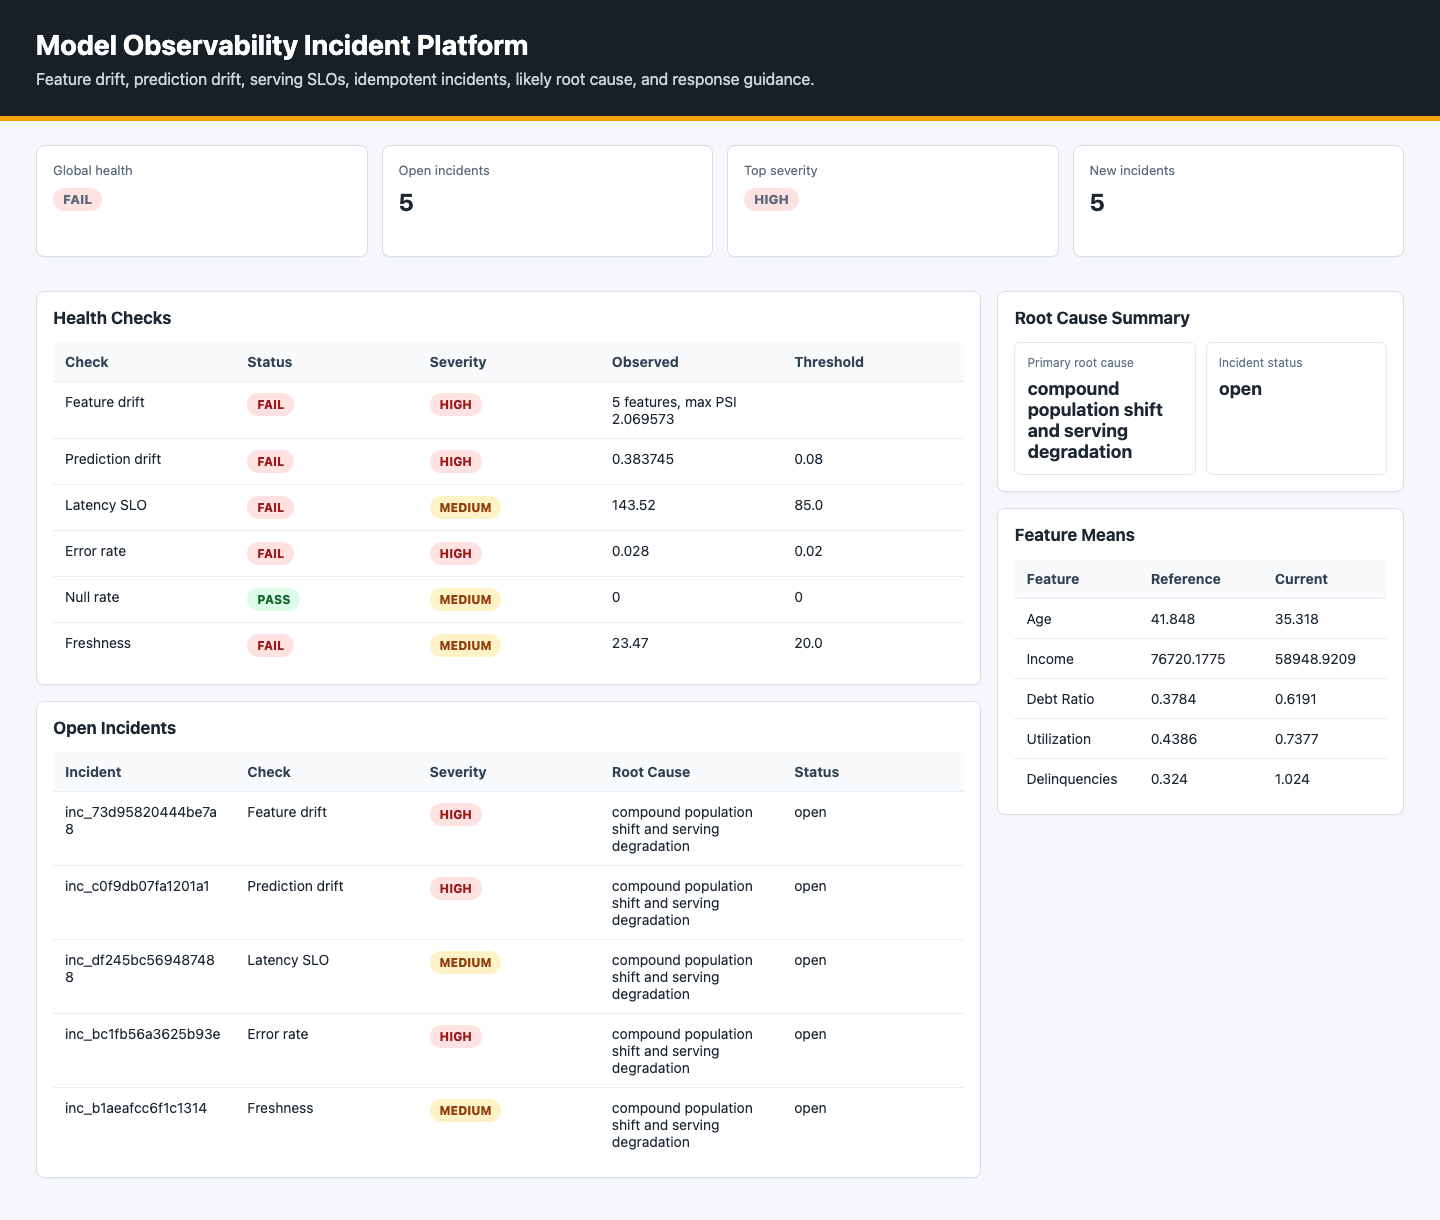
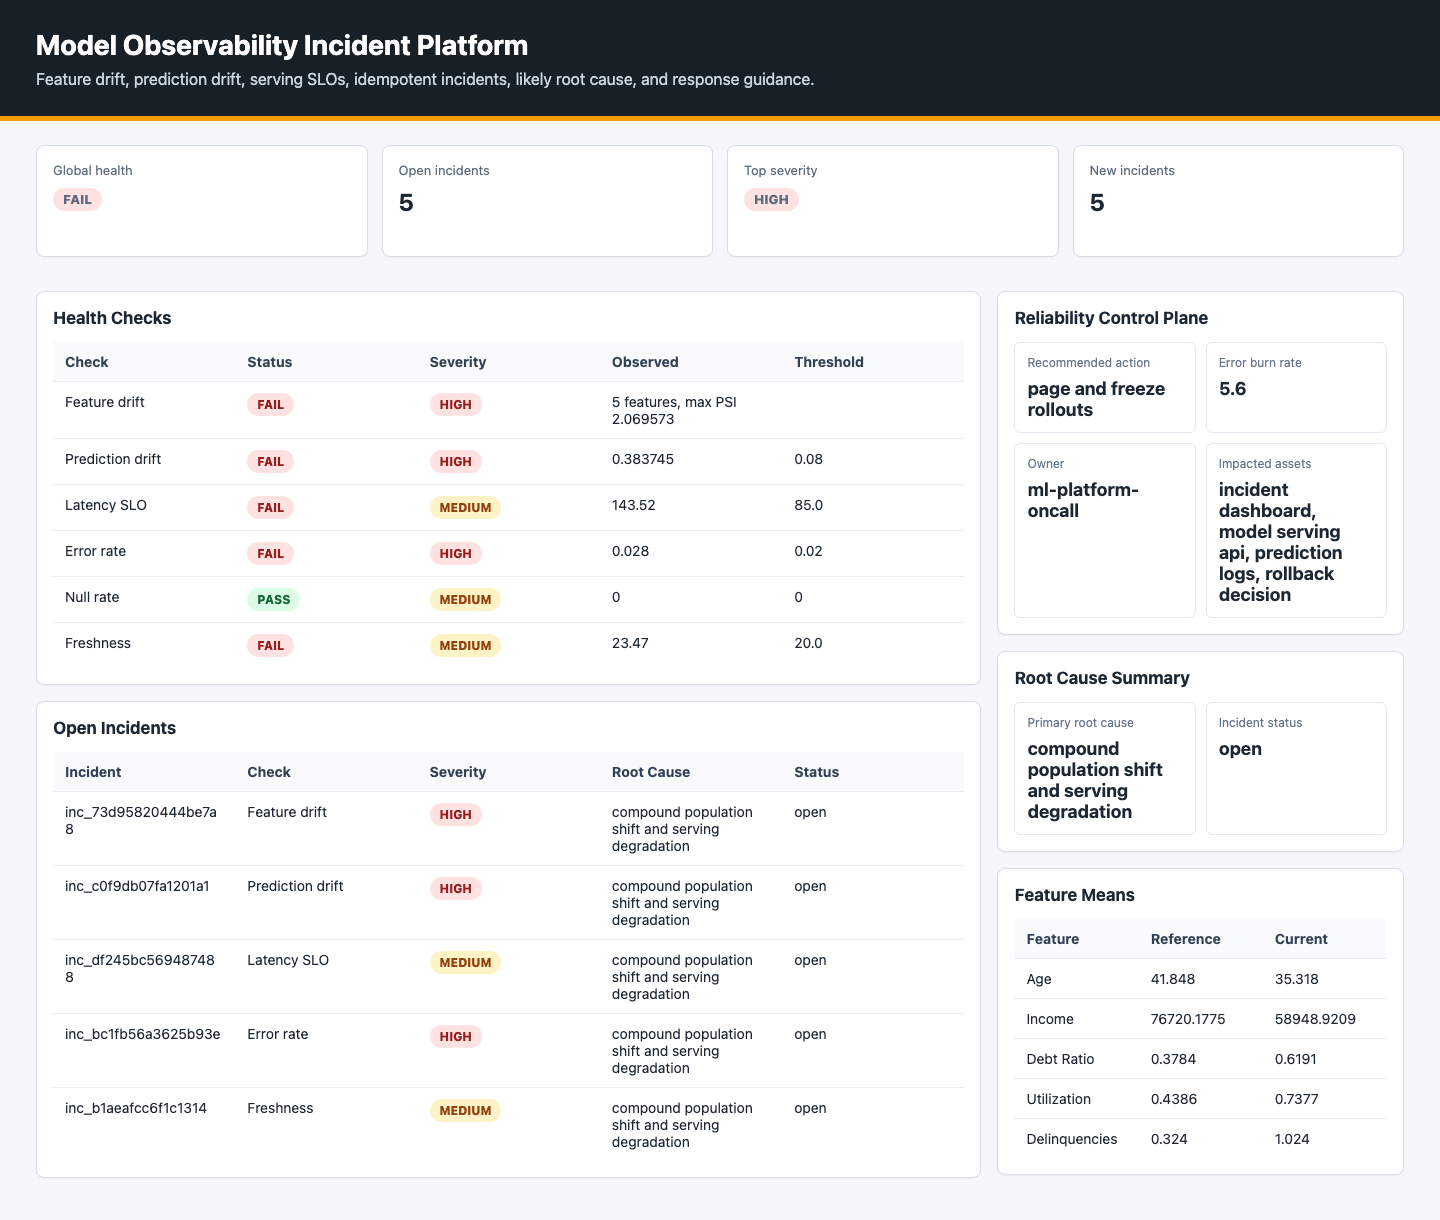
Add reliability control plane and event scaling

diff --git a/src/model_observability_platform/reliability_control.py b/src/model_observability_platform/reliability_control.py
@@ -1,0 +1,64 @@
+from __future__ import annotations
+
+from pathlib import Path
+
+from .io import read_json, write_json
+
+
+def burn_rate(error_rate: float, *, availability_slo: float = 0.995) -> float:
+    return round(error_rate / max(1.0 - availability_slo, 0.0001), 4)
+
+
+def failed_checks(report: dict) -> list[dict]:
+    return [check for check in report.get("checks", []) if not check.get("passed")]
+
+
+def build_reliability_plan(root: str | Path) -> dict:
+    root = Path(root)
+    report = read_json(root / "reports" / "observability_report.json")
+    incidents = read_json(root / "reports" / "incident_summary.json")
+    error_check = next((check for check in report.get("checks", []) if check.get("name") == "error_rate"), {})
+    latency_check = next((check for check in report.get("checks", []) if check.get("name") == "latency_slo"), {})
+    observed_error_rate = float(error_check.get("observed", 0.0))
+    error_burn = burn_rate(observed_error_rate)
+    open_incidents = int(incidents.get("open_count", 0))
+    severity = incidents.get("severity", "low")
+    failed = failed_checks(report)
+    impacted_assets = sorted(
+        {
+            "prediction_logs",
+            "model_serving_api" if {"latency_slo", "error_rate"} & {check["name"] for check in failed} else "feature_pipeline",
+            "incident_dashboard",
+            "rollback_decision",
+        }
+    )
+    if severity in {"critical", "high"} and error_burn >= 4.0:
+        action = "page_and_freeze_rollouts"
+    elif open_incidents >= 3:
+        action = "open_incident_review"
+    elif failed:
+        action = "watch"
+    else:
+        action = "healthy"
+    plan = {
+        "recommended_action": action,
+        "severity": severity,
+        "open_incidents": open_incidents,
+        "error_budget_burn_rate": error_burn,
+        "latency_p95": latency_check.get("observed"),
+        "failed_checks": [check["name"] for check in failed],
+        "impacted_assets": impacted_assets,
+        "routing": {
+            "page": action == "page_and_freeze_rollouts",
+            "slack_channel": "#ml-reliability",
+            "owner": "ml-platform-oncall",
+        },
+        "runbook_steps": [
+            "Freeze model promotions while impact is unknown.",
+            "Compare current feature distributions against the reference window.",
+            "Inspect KServe latency and error-rate dashboards.",
+            "Rollback champion alias if serving failures exceed the burn-rate policy.",
+        ],
+    }
+    write_json(root / "reports" / "reliability_control_plan.json", plan)
+    return plan

diff --git a/tests/test_model_observability_platform.py b/tests/test_model_observability_platform.py
@@ -7,7 +7,8 @@ from pathlib import Path
 from model_observability_platform.checks import likely_root_cause, run_checks
 from model_observability_platform.cli import demo
 from model_observability_platform.incidents import create_incidents
-from model_observability_platform.io import read_csv
+from model_observability_platform.io import read_csv, write_json
+from model_observability_platform.reliability_control import build_reliability_plan, burn_rate
 from model_observability_platform.telemetry import generate_window
 
 
@@ -53,6 +54,33 @@ class ModelObservabilityPlatformTest(unittest.TestCase):
             "kueue.x-k8s.io/queue-name",
         ]:
             self.assertIn(expected, admission)
+
+    def test_event_driven_autoscaling_assets_exist(self) -> None:
+        repo = Path(__file__).resolve().parents[1]
+        autoscaling = (repo / "kubernetes" / "event-driven-autoscaling.yaml").read_text(encoding="utf-8")
+
+        for expected in ["ScaledJob", "kafka", "lagThreshold", "limitToPartitionsWithLag", "observability-checks-queue"]:
+            self.assertIn(expected, autoscaling)
+
+    def test_reliability_control_escalates_high_burn_incident(self) -> None:
+        with tempfile.TemporaryDirectory() as tmp:
+            root = Path(tmp)
+            write_json(
+                root / "reports" / "observability_report.json",
+                {
+                    "checks": [
+                        {"name": "error_rate", "passed": False, "observed": 0.04},
+                        {"name": "latency_slo", "passed": False, "observed": 120.0},
+                    ]
+                },
+            )
+            write_json(root / "reports" / "incident_summary.json", {"open_count": 4, "severity": "high"})
+
+            plan = build_reliability_plan(root)
+
+            self.assertGreaterEqual(burn_rate(0.04), 8.0)
+            self.assertEqual(plan["recommended_action"], "page_and_freeze_rollouts")
+            self.assertIn("rollback_decision", plan["impacted_assets"])
 
     def test_demo_creates_incidents_and_dashboard(self) -> None:
         with tempfile.TemporaryDirectory() as tmp:

diff --git a/src/model_observability_platform/cli.py b/src/model_observability_platform/cli.py
@@ -8,6 +8,7 @@ from .checks import run_checks
 from .dashboard import render_dashboard
 from .incidents import create_incidents
 from .io import read_csv, write_json
+from .reliability_control import build_reliability_plan
 from .telemetry import generate_window
 
 
@@ -18,17 +19,25 @@ def demo(output: str | Path) -> dict:
     report = run_checks(read_csv(reference_path), read_csv(current_path))
     write_json(root / "reports" / "observability_report.json", report)
     incident_summary = create_incidents(root, report)
-    dashboard = render_dashboard(root / "reports" / "model_observability_dashboard.html", report=report, incident_summary=incident_summary)
-    return {"report": report, "incidents": incident_summary, "dashboard": str(dashboard)}
+    reliability_plan = build_reliability_plan(root)
+    dashboard = render_dashboard(
+        root / "reports" / "model_observability_dashboard.html",
+        report=report,
+        incident_summary=incident_summary,
+        reliability_plan=reliability_plan,
+    )
+    return {"report": report, "incidents": incident_summary, "reliability_plan": reliability_plan, "dashboard": str(dashboard)}
 
 
 def main(argv: list[str] | None = None) -> int:
     parser = argparse.ArgumentParser(description="Model observability and incident response platform")
     sub = parser.add_subparsers(dest="command", required=True)
-    for command in ["demo"]:
+    for command in ["demo", "reliability-plan"]:
         cmd = sub.add_parser(command)
         cmd.add_argument("--output", default=".local")
     args = parser.parse_args(argv)
     if args.command == "demo":
         print(json.dumps(demo(args.output), indent=2, sort_keys=True))
+    elif args.command == "reliability-plan":
+        print(json.dumps(build_reliability_plan(args.output), indent=2, sort_keys=True))
     return 0

diff --git a/src/model_observability_platform/dashboard.py b/src/model_observability_platform/dashboard.py
@@ -52,7 +52,10 @@ def rows(items: list[dict], columns: list[str]) -> str:
     return "\n".join(rendered)
 
 
-def render_dashboard(output_path: str | Path, *, report: dict, incident_summary: dict) -> Path:
+def render_dashboard(output_path: str | Path, *, report: dict, incident_summary: dict, reliability_plan: dict | None = None) -> Path:
+    reliability_plan = reliability_plan or {}
+    reliability_action = str(reliability_plan.get("recommended_action", "not planned")).replace("_", " ")
+    impacted_assets = ", ".join(str(asset).replace("_", " ") for asset in reliability_plan.get("impacted_assets", [])) or "none"
     check_rows = [
         {
             "check": LABELS.get(check["name"], check["name"]),
@@ -144,6 +147,15 @@ def render_dashboard(output_path: str | Path, *, report: dict, incident_summary:
             </div>
           </div>
           <div>
+            <div class="panel">
+              <h2>Reliability Control Plane</h2>
+              <div class="summary">
+                <div><span>Recommended action</span><strong>{esc(reliability_action)}</strong></div>
+                <div><span>Error burn rate</span><strong>{esc(reliability_plan.get('error_budget_burn_rate', 'n/a'))}</strong></div>
+                <div><span>Owner</span><strong>{esc(reliability_plan.get('routing', {}).get('owner', 'n/a'))}</strong></div>
+                <div><span>Impacted assets</span><strong>{esc(impacted_assets)}</strong></div>
+              </div>
+            </div>
             <div class="panel">
               <h2>Root Cause Summary</h2>
               <div class="summary">

diff --git a/docs/control-plane-depth.md b/docs/control-plane-depth.md
@@ -1,0 +1,20 @@
+# Advanced Reliability Control Plane
+
+This repo now includes a reliability planner in `src/model_observability_platform/reliability_control.py`.
+
+## Operator Workflow
+
+- Run `make demo` to generate reference/current telemetry, checks, incidents, and dashboard output.
+- Run `make reliability-plan` to generate `reports/reliability_control_plan.json`.
+- Inspect the recommended action: `healthy`, `watch`, `open_incident_review`, or `page_and_freeze_rollouts`.
+
+## What The Planner Uses
+
+- Open incident count and incident severity.
+- Failed drift, freshness, latency, and error-rate checks.
+- Error-budget burn rate for a 99.5 percent availability target.
+- Impacted assets and rollback decision path.
+
+## Production Signal
+
+The planner turns observability from passive charts into an action system. It decides when reliability issues should freeze promotions, page an owner, or remain in watch mode.

diff --git a/README.md b/README.md
@@ -66,6 +66,8 @@ For the latest reliability control-plane pass, see [advanced orchestration asses
 
 For the Kubernetes/Airflow robustness layer, see [Kubernetes and Airflow robustness](docs/kubernetes-airflow-robustness.md).
 
+For the operator-facing reliability planner, see [advanced reliability control plane](docs/control-plane-depth.md).
+
 ## Incident Semantics
 
 Incidents are deduplicated by a stable fingerprint derived from the failed check and observed signature. Running the same report repeatedly does not create duplicates. Each incident includes: